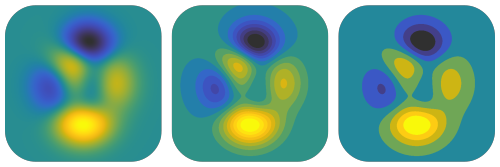
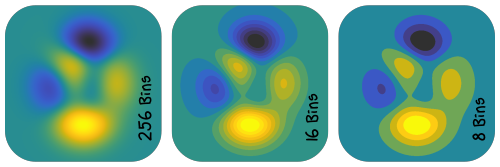
semantic segmentation example

diff --git a/examples/rtd-examples-python/rtd_demo_images/colormaps.py b/examples/rtd-examples-python/rtd_demo_images/colormaps.py
@@ -84,6 +84,8 @@ def demo_colormaps():
     canvas_height = int(scale * peaks.height + 10.5)
     painter = viren2d.Painter(
         width=canvas_width, height=canvas_height, color='white!0')
+    
+    text_style = viren2d.TextStyle(family='xkcd', size=18, color='black')
 
     x = column_width / 2 + 5
     for bins in cmap_bins:
@@ -93,7 +95,63 @@ def demo_colormaps():
         painter.draw_image(
             image=vis, position=(x, canvas_height / 2), anchor='center',
             scale_x=scale, scale_y=scale, rotation=0, clip_factor=0.2)
+
+        painter.draw_text(
+            text=[f'{bins} Bins'], anchor='bottom-left', rotation=-90, 
+            position=(x + column_width / 2 - 5, canvas_height * 0.85),
+            text_style=text_style)
         
         x += column_width + 10
 
     return np.array(painter.canvas, copy=True)
+
+
+def demo_colorize_labels():
+    try:
+        from PIL import Image
+        data_path = os.path.join(
+            os.path.abspath(os.path.dirname(__file__)), '..', '..', 'data')
+
+        class_labels = viren2d.load_image_uint8(
+            os.path.join(data_path, 'semseg-classes.png'))
+        # Instance labels are stored as 16-bit png, requires Pillow or any
+        # other external library to load properly:
+        instance_labels = np.array(
+            Image.open(os.path.join(data_path, 'semseg-instances.png')))
+        
+        text_style = viren2d.TextStyle(
+            family='xkcd', size=21, color='#c0bab1')
+
+        painter = viren2d.Painter(height=215, width=600, color='white!0')
+        
+        vis_cls = viren2d.colorize_labels(
+            labels=class_labels, colormap='glasbey-light')
+        
+        scale = (painter.canvas.width / 2 - 10) / vis_cls.width
+
+        painter.draw_image(
+            vis_cls, position=(5, 5), anchor='top-left', scale_x=scale,
+            scale_y=scale, clip_factor=0.15)
+
+        painter.draw_text(
+            text=['Class Labels'],
+            position=(0.25 * painter.canvas.width, painter.canvas.height - 15),
+            anchor='bottom', text_style=text_style)
+        
+        vis_ids = viren2d.colorize_labels(
+            labels=instance_labels, colormap='glasbey-light')
+        
+        painter.draw_image(
+            image=vis_ids, position=(painter.canvas.width - 5, 5),
+            anchor='top-right', scale_x=scale, scale_y=scale, clip_factor=0.15)
+
+        painter.draw_text(
+            text=['Instance IDs'],
+            position=(0.75 * painter.canvas.width, painter.canvas.height - 15),
+            anchor='bottom', text_style=text_style)
+        
+        return np.array(painter.canvas, copy=True)
+
+    except ModuleNotFoundError:
+        print('Optional depency PIL is not installed - skipping label colorization demo.')
+        return None

diff --git a/examples/rtd-examples-python/render_rtd_images.py b/examples/rtd-examples-python/render_rtd_images.py
@@ -12,6 +12,8 @@ def _process_result(
         title: str,  # currently ignored
         save_image: bool,
         filename: str) -> None:
+    if img is None:
+        return
     if show_image:
         imvis.imshow(img, wait_ms=-1)#100) # ignore the title
     if save_image:
@@ -84,6 +86,11 @@ def render_rtd_demos(show_images: bool, save_images: bool):
     _process_result(
         img, show_images, 'colormaps', save_images, 'colormap-peaks.png')
     
+     # Color map demo - label visualizations
+    img = demo_colorize_labels()
+    _process_result(
+        img, show_images, 'colorize-labels', save_images, 'colorize-labels.png')
+
     # Color map demo - Relief shading
     img = demo_relief_shading()
     _process_result(

diff --git a/examples/rtd-examples-python/rtd_demo_images/__init__.py b/examples/rtd-examples-python/rtd_demo_images/__init__.py
@@ -6,5 +6,5 @@ from rtd_demo_images.line_styles import demo_line_cap, demo_line_join
 from rtd_demo_images.tracking_by_detection import demo_tracking_by_detection
 from rtd_demo_images.cheat_sheets import cheat_sheet_linestyle, cheat_sheet_arrowstyle, cheat_sheet_colormaps
 from rtd_demo_images.images import demo_image_overlay, demo_image_anchors
-from rtd_demo_images.colormaps import demo_colormaps, demo_relief_shading
+from rtd_demo_images.colormaps import demo_colormaps, demo_relief_shading, demo_colorize_labels
 from rtd_demo_images.optical_flow import demo_optical_flow

diff --git a/docs/source/tutorial/colormaps.rst b/docs/source/tutorial/colormaps.rst
@@ -130,10 +130,11 @@ representing thermographic (``thermal``), topographic (``earth``, ``ocean``,
 Scaled Colorization
 ~~~~~~~~~~~~~~~~~~~
 
-The following example uses the `"gouldian" color map <https://colorcet.com/>`__
-to colorize example data computed by the well-known
-`peaks function <https://www.mathworks.com/help/matlab/ref/peaks.html>`__,
-by varying the number of discretization bins:
+Scaled colorization divides the data range into a discrete number of evenly
+spaced bins which are then used to look up the corresponding color from a
+color map. The following example uses the
+`Gouldian color map <https://colorcet.com/>`__ to colorize the 
+`peaks example data <https://www.mathworks.com/help/matlab/ref/peaks.html>`__:
 
 
 .. image:: ../images/colormap-peaks.png
@@ -147,7 +148,7 @@ Corresponding Python code:
 .. literalinclude:: ../../../examples/rtd-examples-python/rtd_demo_images/colormaps.py
    :language: python
    :emphasize-lines: 1, 13-14
-   :lines: 78-97
+   :lines: 78-104
    :linenos:
    :dedent: 4
 
@@ -156,11 +157,29 @@ Corresponding Python code:
 Label Colorization
 ~~~~~~~~~~~~~~~~~~
 
-Label images, *e.g.* semantic/panoptic/instance segementation results can be
-visualized via :func:`~viren2d.colorize_labels`:
+Label images, *e.g.* semantic/panoptic/instance segementation results, should
+not be colorized by dividing the input data range into a discrete number of
+bins. Thus, use :func:`~viren2d.colorize_labels` for such data, which will
+alternate between the colors:
 
-.. warning:: 
-   FIXME add example visualization
+
+.. image:: ../images/colorize-labels.png
+   :width: 500
+   :alt: Exemplary label colorization
+   :align: center
+
+
+This visualization shows class- and instance-level annotations from
+a crop of the `Cityscapes training dataset <https://www.cityscapes-dataset.com/>`__.
+Corresponding colorization code:
+
+
+.. literalinclude:: ../../../examples/rtd-examples-python/rtd_demo_images/colormaps.py
+   :language: python
+   :emphasize-lines: 13-14, 27-28
+   :lines: 115-151
+   :linenos:
+   :dedent: 8
 
 
 ~~~~~~~~~~~~~~
@@ -184,6 +203,8 @@ Orbiter* in 2011 and published by
 `NASA/GSFC/Arizona State University <https://photojournal.jpl.nasa.gov/catalog/PIA14021>`__.
 The smaller images below each main visualization show the inputs to
 :func:`~viren2d.relief_shading`, *i.e.* the relief and its colorization.
+Note how the two isoluminant relief color maps are not useful on their own, but
+induce a proper shape perception after shading.
 Python code for this visualization example:
 
 .. literalinclude:: ../../../examples/rtd-examples-python/rtd_demo_images/colormaps.py
